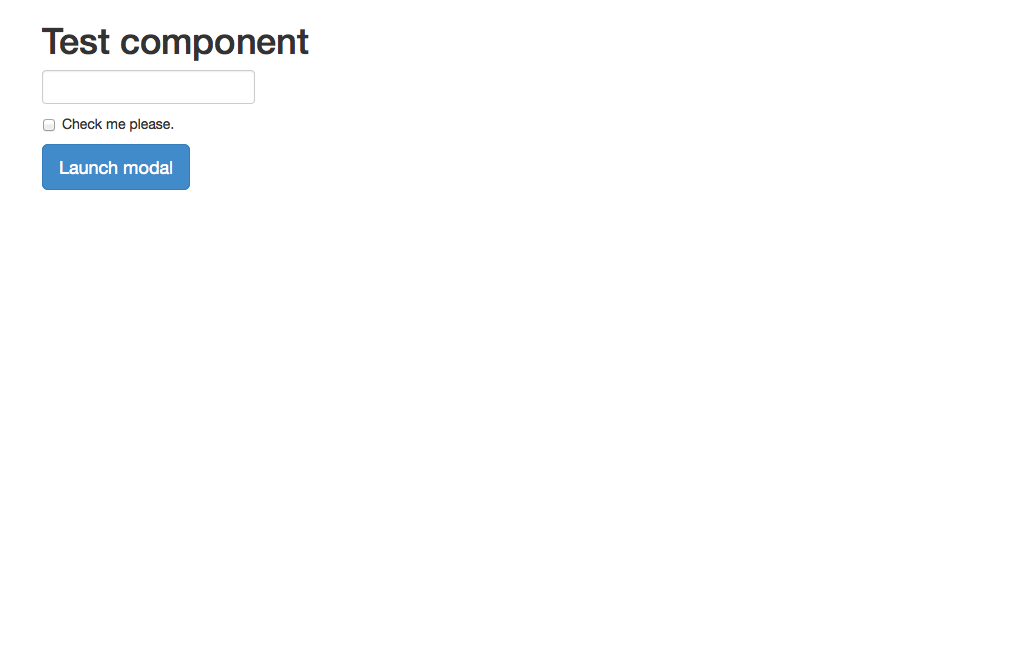
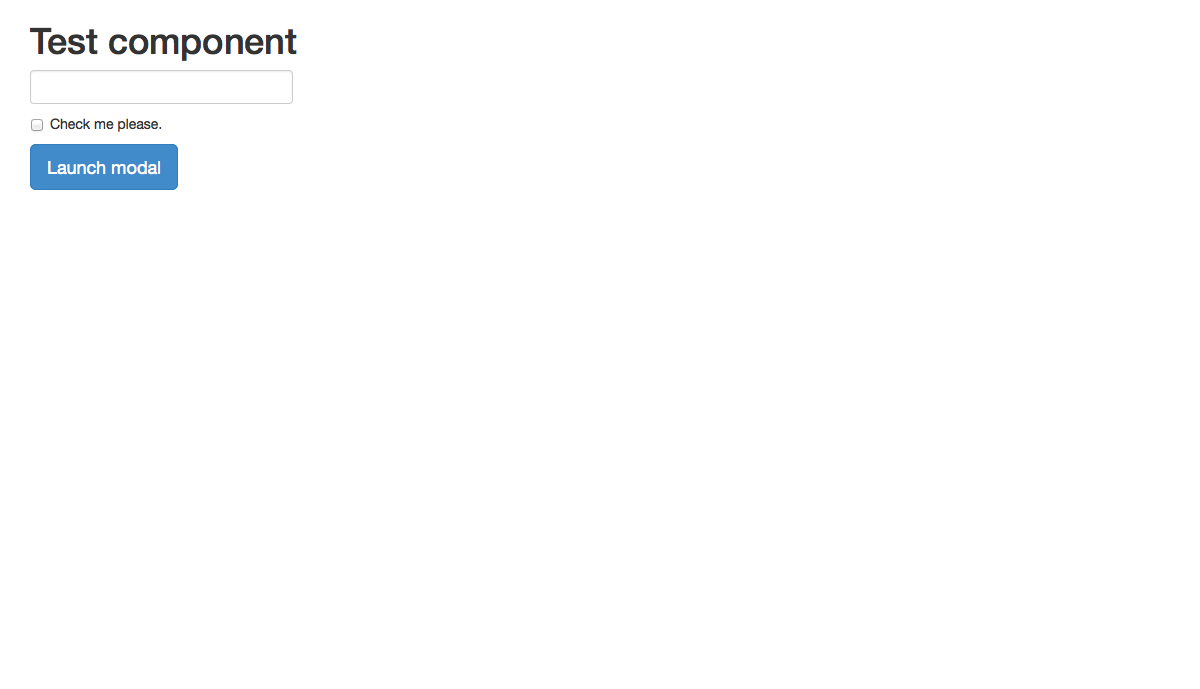
refactor, new ex ss (new default screen size)

Changed region(s): [[0.0, 0.1511, 0.1875, 0.3021], [0.0312, 0.0302, 0.3125, 0.1208]]

diff --git a/index.js b/index.js
@@ -44,7 +44,9 @@ function _operateOnEachHuxleyfile(browserName, huxleyfilePath, action, next) {
   }
 
   if (unSkippedTasks.length === 0) {
-    console.warn('\nEvery task is marked as skipped at %s.\n'.yellow, huxleyfilePath);
+    console.warn(
+      '\nEvery task is marked as skipped at %s.\n'.yellow, huxleyfilePath
+    );
     return next();
   }
 
@@ -70,7 +72,12 @@ function _operateOnEachHuxleyfile(browserName, huxleyfilePath, action, next) {
       next();
     } else {
       console.log('\nNext task...\n');
-      action(browserName, huxleyfilePath, unSkippedTasks[++currentTaskCount], runNextTask);
+      action(
+        browserName,
+        huxleyfilePath,
+        unSkippedTasks[++currentTaskCount],
+        runNextTask
+      );
     }
   });
 }
@@ -82,20 +89,26 @@ function _recordTask(browserName, huxleyfilePath, task, next) {
   var screenSize = task.screenSize || DEFAULT_SCREEN_SIZE;
 
   browser.openToUrl(driver, task.url, screenSize[0], screenSize[1], function() {
-    console.log('Running test: ' + task.name);
+    console.log('Running test: %s'.bold, task.name);
     recorder.startPromptAndInjectEventsScript(driver,
                                               function(screenShotTimes) {
       recorder.stopAndGetProcessedEvents(driver,
                                         screenShotTimes,
                                         function(allEvents) {
-        _saveTaskAsJsonToFolder(task.name, huxleyfilePath, allEvents, function(err) {
+        _saveTaskAsJsonToFolder(task.name,
+                                huxleyfilePath,
+                                allEvents,
+                                function(err) {
           console.log(
             '\nDon\'t move! Simulating the recording now...\n'.yellow
           );
 
           browser.quit(driver, function() {
             if (err) return next(err);
-            _playbackTaskAndSaveScreenshot(browserName, huxleyfilePath, task, function(err) {
+            _playbackTaskAndSaveScreenshot(browserName,
+                                          huxleyfilePath,
+                                          task,
+                                          function(err) {
               if (err) return next(err);
               next();
             });
@@ -120,15 +133,25 @@ function _saveTaskAsJsonToFolder(taskName, huxleyfilePath, taskEvents, next) {
   });
 }
 
-function _playbackTaskAndSaveScreenshot(browserName, huxleyfilePath, task, next) {
+function _playbackTaskAndSaveScreenshot(browserName,
+                                        huxleyfilePath,
+                                        task,
+                                        next) {
   _playbackTask(browserName, huxleyfilePath,task, false, next);
 }
 
-function _playbackTaskAndCompareScreenshot(browserName, huxleyfilePath, task, next) {
+function _playbackTaskAndCompareScreenshot(browserName,
+                                          huxleyfilePath,
+                                          task,
+                                          next) {
   _playbackTask(browserName, huxleyfilePath,task, true, next);
 }
 
-function _playbackTask(browserName, huxleyfilePath, task, compareInsteadOfOverride, next) {
+function _playbackTask(browserName,
+                      huxleyfilePath,
+                      task,
+                      compareInsteadOfOverride,
+                      next) {
   var taskEvents;
   var recordPath = huxleyfilePath + '/' + task.name + '.hux';
 
@@ -144,7 +167,7 @@ function _playbackTask(browserName, huxleyfilePath, task, compareInsteadOfOverri
   var screenSize = task.screenSize || DEFAULT_SCREEN_SIZE;
 
   browser.openToUrl(driver, task.url, screenSize[0], screenSize[1], function() {
-    console.log('Running test: ' + task.name);
+    console.log('\nRunning test: %s\n', task.name);
 
     var options = {
       taskPath: recordPath,
@@ -178,7 +201,10 @@ function _operateOnAllHuxleyfiles(browserName, huxleyfilePath, action) {
   }
 
   var currentHuxleyfileIndex = 0;
-  _operateOnEachHuxleyfile(browserName, allHuxleyPaths[currentHuxleyfileIndex], action, function runNextHuxleyfile(err) {
+  _operateOnEachHuxleyfile(browserName,
+                          allHuxleyPaths[currentHuxleyfileIndex],
+                          action,
+                          function runNextHuxleyfile(err) {
     if (err) {
       process.stdin.pause();
       return console.error(typeof err === 'string' ? err.red : err.message.red);
@@ -188,7 +214,12 @@ function _operateOnAllHuxleyfiles(browserName, huxleyfilePath, action) {
       console.log('\nAll done successfully!\n'.green);
     } else {
       currentHuxleyfileIndex++;
-      _operateOnEachHuxleyfile(browserName, allHuxleyPaths[currentHuxleyfileIndex], action, runNextHuxleyfile);
+      _operateOnEachHuxleyfile(
+        browserName,
+        allHuxleyPaths[currentHuxleyfileIndex],
+        action,
+        runNextHuxleyfile
+      );
     }
   });
 }

diff --git a/source/recorder.js b/source/recorder.js
@@ -4,13 +4,11 @@ var fs = require('fs');
 var read = require('read');
 
 var driver;
-// TODO: better msg
-var promptMessage = 'q/l/*:';
 
 function startPromptAndInjectEventsScript(driver, done) {
   var screenshotCount = 0;
   var recordingStartTime;
-  var screenShotEvents = [];
+  var screenshotEvents = [];
 
   // I'm sick of callbacks and promises, sync read this
   var scriptToInject = fs.readFileSync(__dirname + '/bigBrother.js', 'utf8');
@@ -20,11 +18,11 @@ function startPromptAndInjectEventsScript(driver, done) {
   console.log('Begin record');
   console.log(
     'Type q to quit, l for taking a screenshot and marking a live playback ' +
-    'point, and anything else to take a normal screenshot.'
+    'point til next screenshot, and anything else to take a normal screenshot.'
   );
 
-  read({prompt: promptMessage}, function handleKeyPress(err, key) {
-    if (key === 'q') return done(screenShotEvents);
+  read({prompt: '> '}, function handleKeyPress(err, key) {
+    if (key === 'q') return done(screenshotEvents);
 
     var event = {
       action: 'screenshot',
@@ -35,14 +33,14 @@ function startPromptAndInjectEventsScript(driver, done) {
       event.livePlayback = true;
     }
 
-    screenShotEvents.push(event);
+    screenshotEvents.push(event);
     screenshotCount++;
     console.log(screenshotCount + ' screenshot recorded.');
-    read({prompt: promptMessage}, handleKeyPress);
+    read({prompt: '> '}, handleKeyPress);
   });
 }
 
-function stopAndGetProcessedEvents(driver, screenShotEvents, done) {
+function stopAndGetProcessedEvents(driver, screenshotEvents, done) {
   var browserAndScreenshotEvents;
   var prevScreenshotIsLivePlayback = false;
 
@@ -51,7 +49,7 @@ function stopAndGetProcessedEvents(driver, screenShotEvents, done) {
     // TODO: warn if page switched (can't get events)
     .then(function(browserEvents) {
       browserAndScreenshotEvents = browserEvents
-        .concat(screenShotEvents)
+        .concat(screenshotEvents)
         .sort(function(previous, current) {
           return previous.timeStamp - current.timeStamp;
         });
